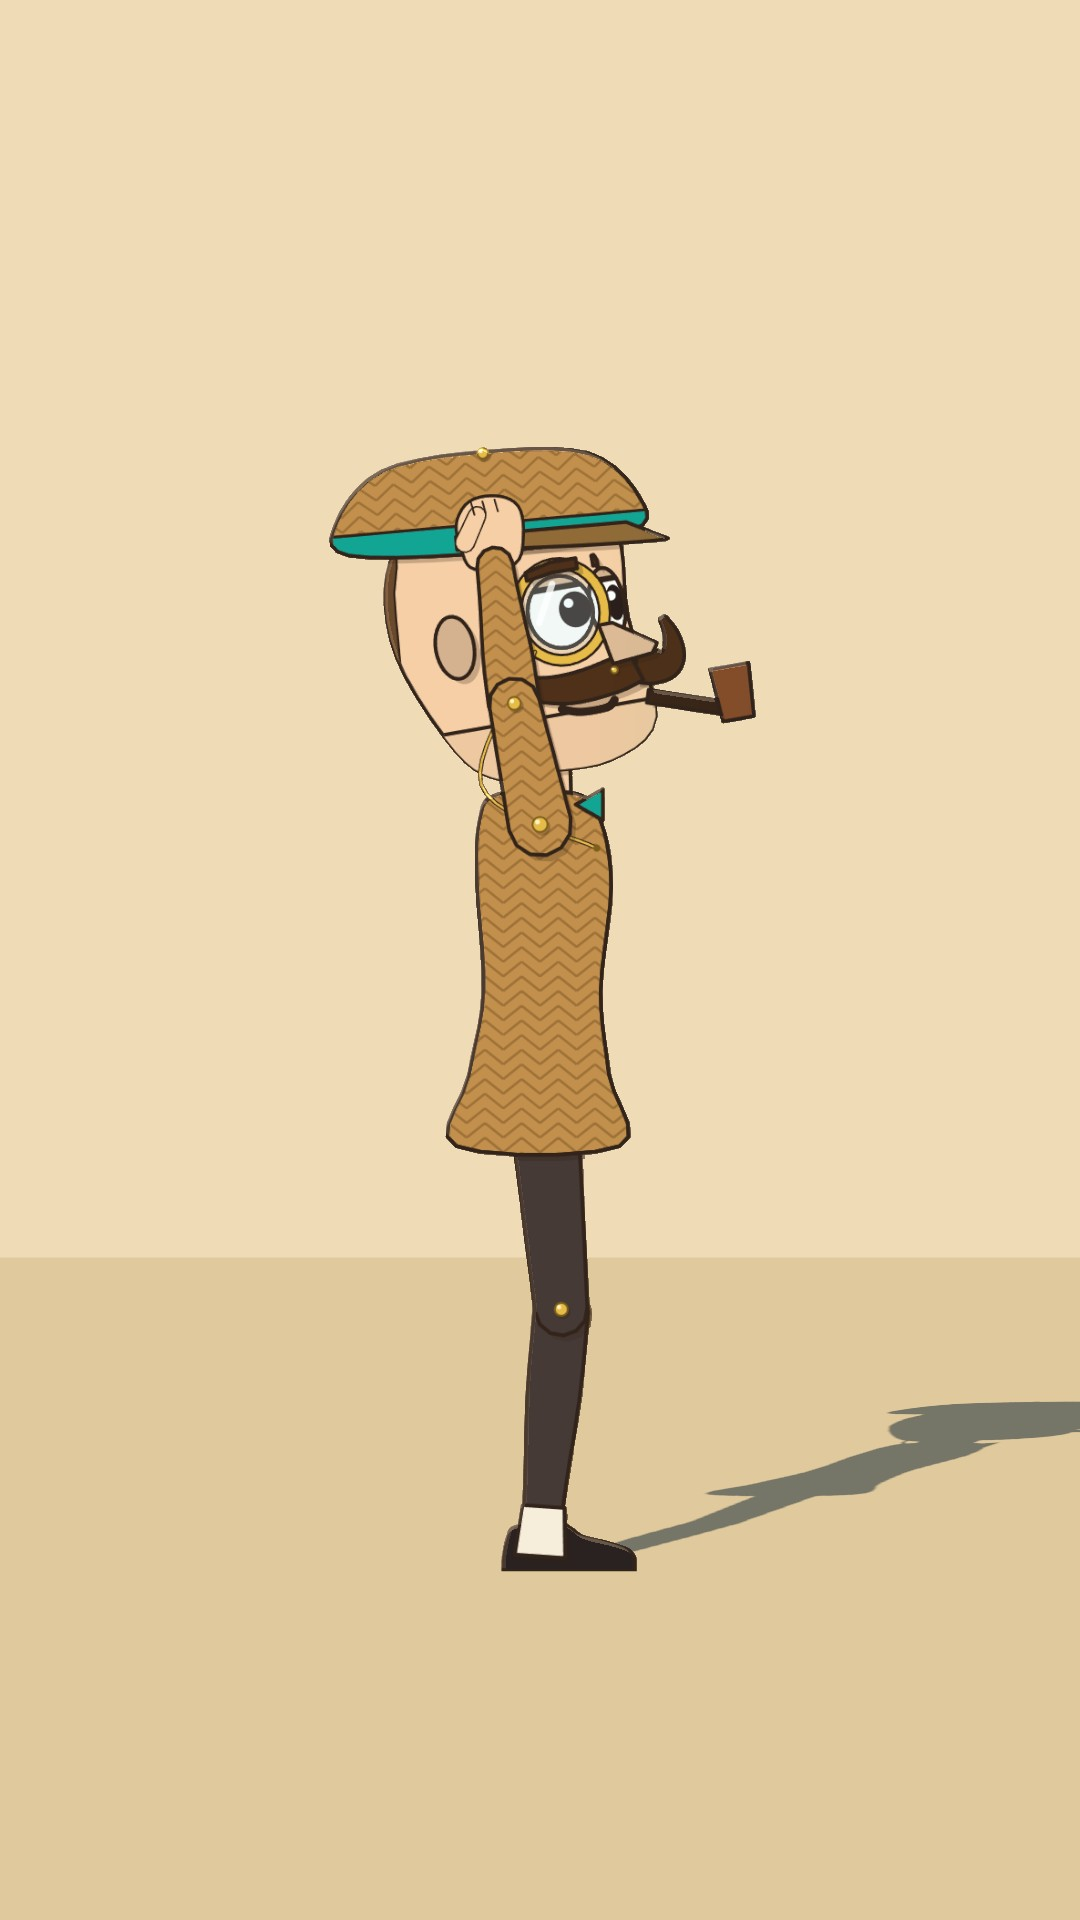
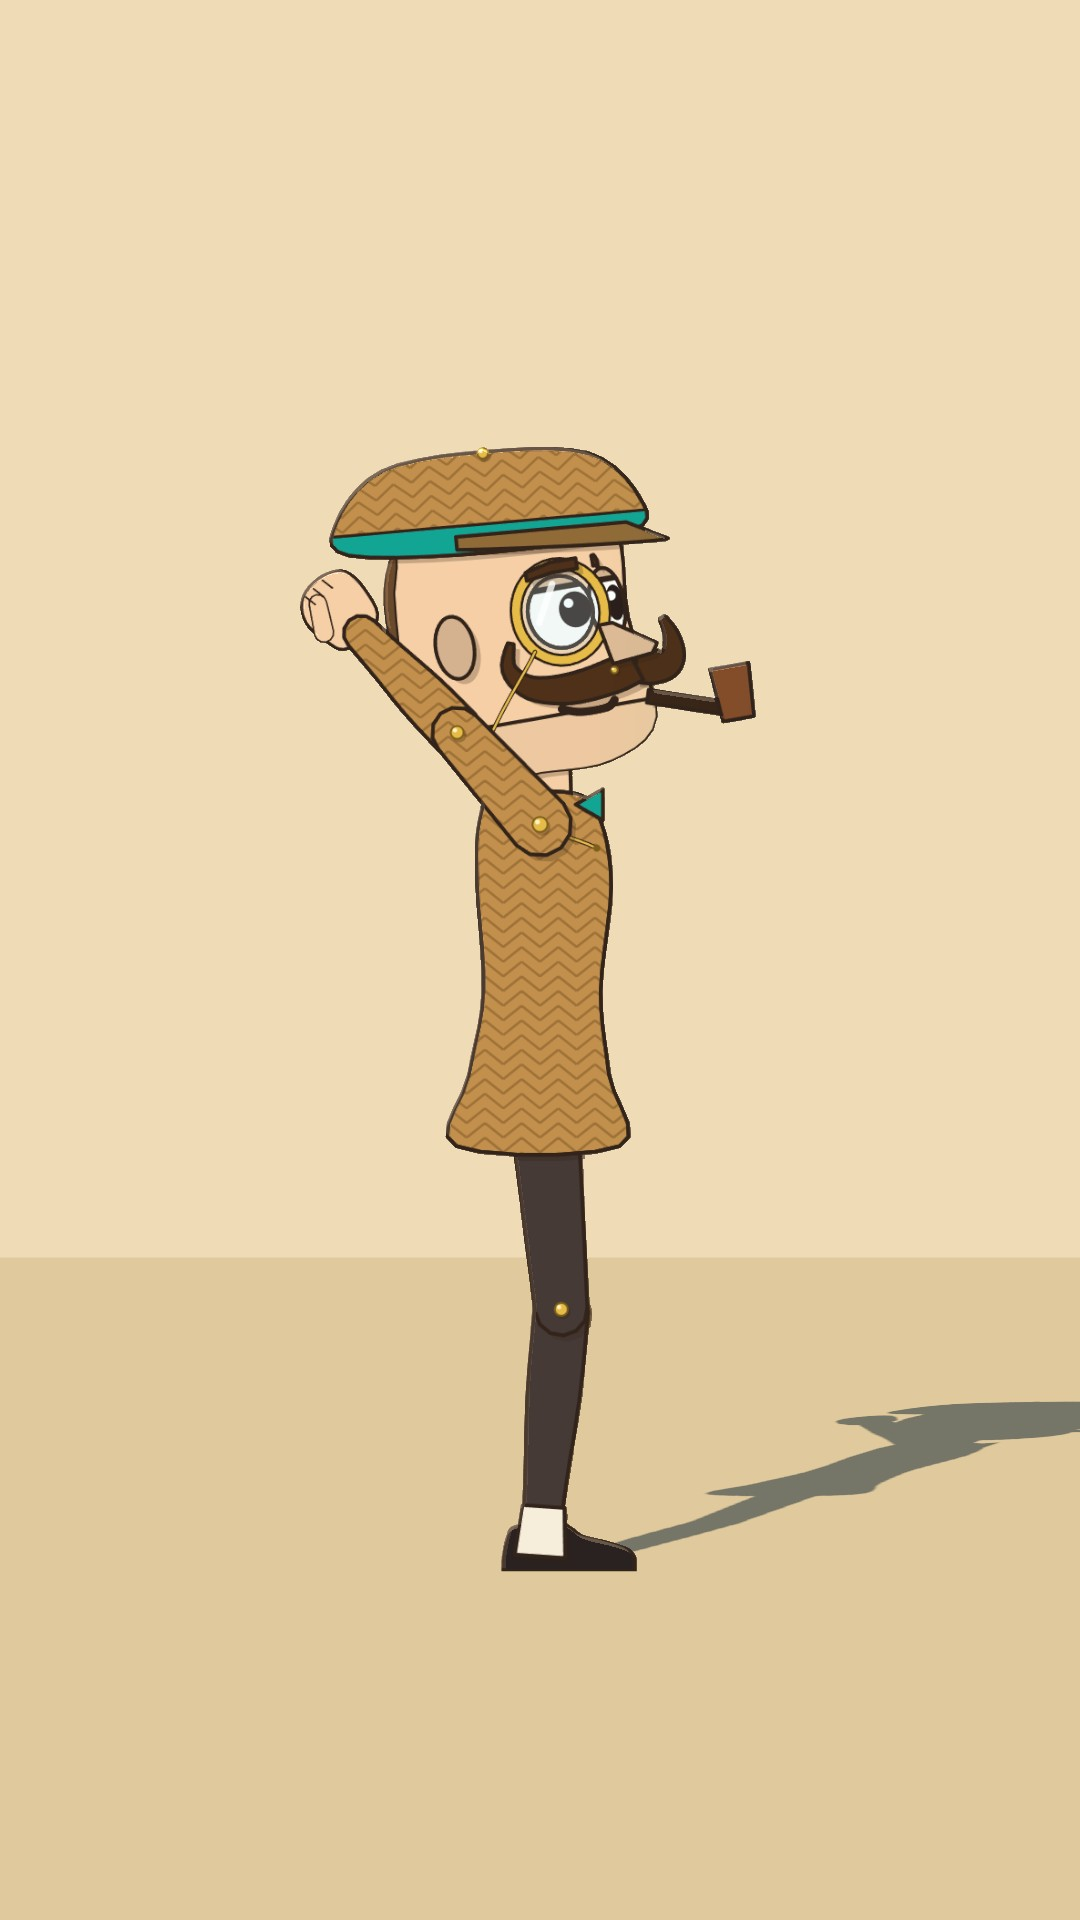
Gesture sheet round 2 (the review's four points): cheer from the side with the arms up behind the head, the flex shown front and three-quarter, the hand over the eyes only from the side (65 degrees, marked), sitting seen at 30 degrees so the stool shows, the hand on the top of the shoulder away from

Changed region(s): [[0.275, 0.25, 0.55, 0.4375], [0.7944, 0.7188, 0.825, 0.75]]

diff --git a/engine/src/craft/shorts/gestureSheet.ts b/engine/src/craft/shorts/gestureSheet.ts
@@ -42,10 +42,13 @@ const SINGLE = ["point", "explain", "shrug", "crossed", "head", "eyes", "cheer",
 for (const name of SINGLE) { const G = GESTURES[name];
   // (a kneeling figure is seen from the front three-quarter, 35 degrees: straight on, the raised knee and the hands on it point at the lens)
   // (and the hand over the eyes: straight on, the head bowed into the hand bows toward the lens and the hand lies at the mouth)
-  const front = (G.needs === "ground" && name !== "fallen") || name === "eyes" ? 35 : 0;
+  // (the hand over the eyes reads only near profile: from the front and three-quarter it lies over the mouth and nose; its first view is
+  // 65 degrees. A seated man in a long coat hides the stool from the front: 30 degrees, so that the seat shows)
+  const front = name === "eyes" ? 65 : name === "sit" ? 30 : G.needs === "ground" && name !== "fallen" ? 35 : 0;
   // (a stick on the shoulder reads only from the front: side-on, behind the head, it shows above and below it, through it in the
   // picture; three-quarter, the hand is before the chest and the stick lies across it. From the side the stick is carried down, stickDown)
-  const views = ([["front", "side", front], ["side", "ahead", 90]] as [string, Aim, number][]).filter((v) => name !== "stickShoulder" || v[0] === "front");
+  // (the flex's second view is three-quarter, 55 degrees: side-on the near forearm rises before the face)
+  const views = ([["front", "side", front], ["side", name === "flex" ? "side" : "ahead", name === "flex" ? 55 : 90]] as [string, Aim, number][]).filter((v) => name !== "stickShoulder" || v[0] === "front");
   for (const [who, D, h] of WHO) for (const [view, aim, turn] of views) {
     const fig: Fig = { name: who, D, h, at: [0, 0, 0], heading: ONE.toward(0, 0, turn), pose: G.pose(aim, 0.3), hands: G.hands };
     add(`${name}-${who}-${view}`, ONE.cam, [fig], (g, c, cam) => {
@@ -74,7 +77,9 @@ const palmOf = (s: ReturnType<typeof stand>, side: "L" | "R"): V3 => { const j =
 { // the hand on a shoulder: side by side facing the lens, Sir's left hand on the villager's right shoulder
   // (Sir a little nearer the lens, so that his hand on the villager's shoulder lies in front of it: level with him, it was drawn behind his arm)
   const sb = stand(VILLAGER_D, [0.3, 0, 0], PAIR.toward(0.3, 0, -10), 1.74, {}), shR = (jointsOf(sb) as (n: string) => V3)("shR"), sa = stand(SIR_D, [-0.3, 0, 0.1], PAIR.toward(-0.3, 0.1, 10), 1.75, GESTURES.shoulder.pose("side", 0));
-  const armA = reach(sa, "L", [shR[0], shR[1] + 0.02, shR[2]]); add("shoulder-pair-front", PAIR.cam, [{ name: "sir", D: SIR_D, h: 1.75, at: sa.at, heading: sa.heading, pose: { ...GESTURES.shoulder.pose("side", 0), ...armA }, hands: GESTURES.shoulder.hands },
+  // (the hand on the top of the shoulder, out from the neck, far from the face: at the joint itself it lay by the villager's jaw)
+  const nk = (jointsOf(sb) as (n: string) => V3)("neck"), top: V3 = [shR[0] + (shR[0] - nk[0]) * 0.3, shR[1] - 0.01, shR[2] + (shR[2] - nk[2]) * 0.3];
+  const armA = reach(sa, "L", top); add("shoulder-pair-front", PAIR.cam, [{ name: "sir", D: SIR_D, h: 1.75, at: sa.at, heading: sa.heading, pose: { ...GESTURES.shoulder.pose("side", 0), ...armA }, hands: GESTURES.shoulder.hands },
     { name: "villager", D: VILLAGER_D, h: 1.74, at: sb.at, heading: sb.heading, pose: { head: [-20, 0, 0] }, hands: {} }], (gg, c, cam) => handOn(c.sir, "L", c.villager, "shR", cam)); }
 { // pulling up: Sir leans back and holds the hand of the villager sitting on the ground, who reaches up to it
   // (the one on the ground sits up with his knees bent and his feet drawn in, so that he sits close to Sir's feet without touching them,

diff --git a/engine/src/craft/stage/gestures.ts b/engine/src/craft/stage/gestures.ts
@@ -63,7 +63,7 @@ export const GESTURES: Record<string, Gesture> = {
   kneelhand: { how: "The beaten man: down on one knee with one hand on the ground beside him, the body leaning over it, the head down.",
     pose: () => ({ ...KNEEL, lean: 24, armR: [[12, 22], [8, 18]], armL: [[30, 8], [60, 4]], head: [0, 14, 0] }), hands: { handL: "relaxed", handR: "open" }, needs: "ground" },
   sit: { how: "Sitting on the front half of a seat, the thighs level, the shins down, the feet flat. The hands rest on the thighs, the back upright.",
-    pose: () => ({ py: -0.36, legL: { th: [86, 6], sh: [4, 4] } as LegFK, legR: { th: [86, 6], sh: [4, 4] } as LegFK, armL: [[18, 8], [62, 4]], armR: [[18, 8], [62, 4]], lean: 2 }), hands: { handL: "relaxed", handR: "relaxed" }, needs: "seat" },
+    pose: () => ({ py: -0.36, legL: { th: [86, 6], sh: [4, 4] } as LegFK, legR: { th: [86, 6], sh: [4, 4] } as LegFK, armL: [[14, 8], [50, 4]], armR: [[14, 8], [50, 4]], lean: 2 }), hands: { handL: "relaxed", handR: "relaxed" }, needs: "seat" },
   fallen: { how: "Fallen on his back side: sitting on the ground, the legs out in front, the body leaning back on both hands planted behind him, the head up.",
     pose: () => ({ legL: { th: [84, 10], sh: [82, 8] } as LegFK, legR: { th: [80, 4], sh: [74, 2] } as LegFK, lean: -28, armL: [[-38, 18], [-30, 14]], armR: [[-38, 18], [-30, 14]], head: [0, -10, 0] }), hands: { handL: "open", handR: "open" }, needs: "ground" },
   getup: { how: "Getting up from one knee: the front foot planted, the body leaning forward over it, both hands pushing on the raised knee, the eyes ahead.",
@@ -73,8 +73,12 @@ export const GESTURES: Record<string, Gesture> = {
   eyes: { how: "One hand over the eyes, palm in, the elbow bent and forward, the head bowed down into the hand (the eyes come to the hand); the other arm hangs.",
     pose: () => ({ ...STAND, armR: [[72, 18], [176, -46]], armL: REST, head: [0, 34, 0], lean: 8 }), hands: { handR: "open", handL: "relaxed" } },
   cheer: { how: "Both arms up over the head in a V, the elbows almost straight (bent about 20 degrees), the hands open or in fists, the head up.",
-    pose: () => ({ ...STAND, armL: [[12, 142], [8, 162]], armR: [[12, 142], [8, 162]], head: [0, -10, 0] }), hands: { handL: "fist", handR: "fist" } },
+    // (in profile, "ahead", the arms go up a little behind the head: raised forward, the near arm lay over the face. With the arm raised past
+    // level, a positive swing takes it back: the rig's swing turns over with the arm)
+    pose: (aim) => { const [sw, fw] = aim === "ahead" ? [42, 44] : [12, 8]; return { ...STAND, armL: [[sw, 142], [fw, 160]], armR: [[sw, 142], [fw, 160]], head: [0, -10, 0] }; }, hands: { handL: "fist", handR: "fist" } },
   flex: { how: "Both upper arms out to the sides at shoulder height, the forearms straight up, bent 90 degrees at the elbow, the fists tight, the chest out, a grin.",
+    // (the flex reads from the front and from three-quarter, not side-on: in profile the arms out to the sides point at the lens and the near
+    // forearm rises in front of the face, and elbows back with the fists behind the head would bend the elbows the wrong way)
     pose: () => ({ ...STAND, armL: [[0, 86], [0, 176]], armR: [[0, 86], [0, 176]], lean: -3 }), hands: { handL: "fist", handR: "fist" } },
   stickShoulder: { how: "A stick in one hand, the hand up at the front of the shoulder, the elbow bent and forward, the stick leaning back against the shoulder. The other arm hangs. (The referee's stick: never level across the body in two hands.)",
     pose: () => ({ ...STAND, armR: [[35, 15], [160, 10]], armL: REST }), hands: { handR: "grip", handL: "relaxed" } },
